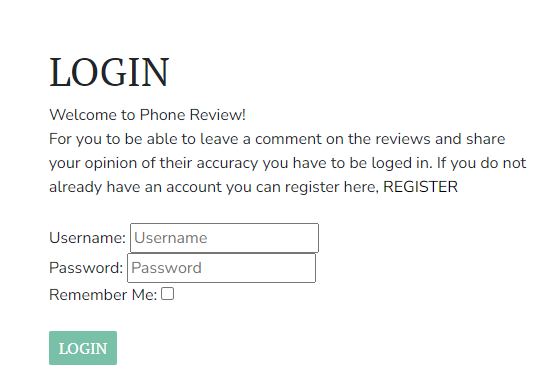
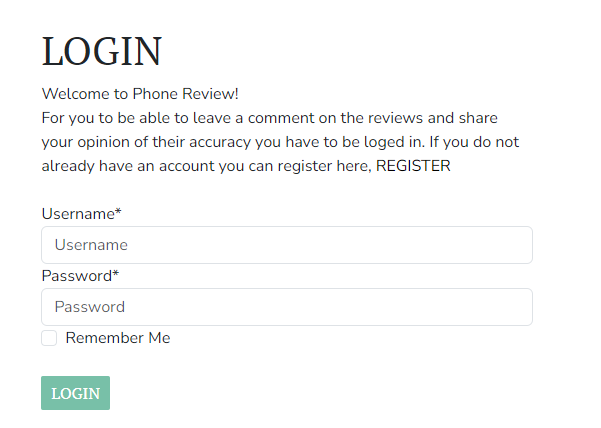
Add crispy to login/register templates and update feature images for readme

diff --git a/templates/account/signup.html b/templates/account/signup.html
@@ -6,6 +6,8 @@
 
 {% block content %}
 
+{% load crispy_forms_tags %}
+
 <div class="container-fluid">
     <div class="row my-4 justify-content-center">
         <div class="col-10 col-md-6 col-lg-4">
@@ -24,7 +26,7 @@
             <div class="row">
                 <form class="signup" id="signup_form" method="post" action="{% url 'account_signup' %}">
                     {% csrf_token %}
-                    {{ form.as_p }}
+                    {{ form | crispy }}
                     {% if redirect_field_value %}
                     <input type="hidden" name="{{ redirect_field_name }}" value="{{ redirect_field_value }}" />
                     {% endif %}

diff --git a/templates/account/login.html b/templates/account/login.html
@@ -7,6 +7,8 @@
 
 {% block content %}
 
+{% load crispy_forms_tags %}
+
 <div class="container-fluid">
     <div class="row my-4 justify-content-center">
         <div class="col-10 col-md-6 col-lg-4">
@@ -25,7 +27,7 @@
             <div class="row">
                 <form class="login" method="POST" action="{% url 'account_login' %}">
                     {% csrf_token %}
-                    {{ form.as_p }}
+                    {{ form | crispy }}
                     {% if redirect_field_value %}
                     <input type="hidden" name="{{ redirect_field_name }}" value="{{ redirect_field_value }}" />
                     {% endif %}
